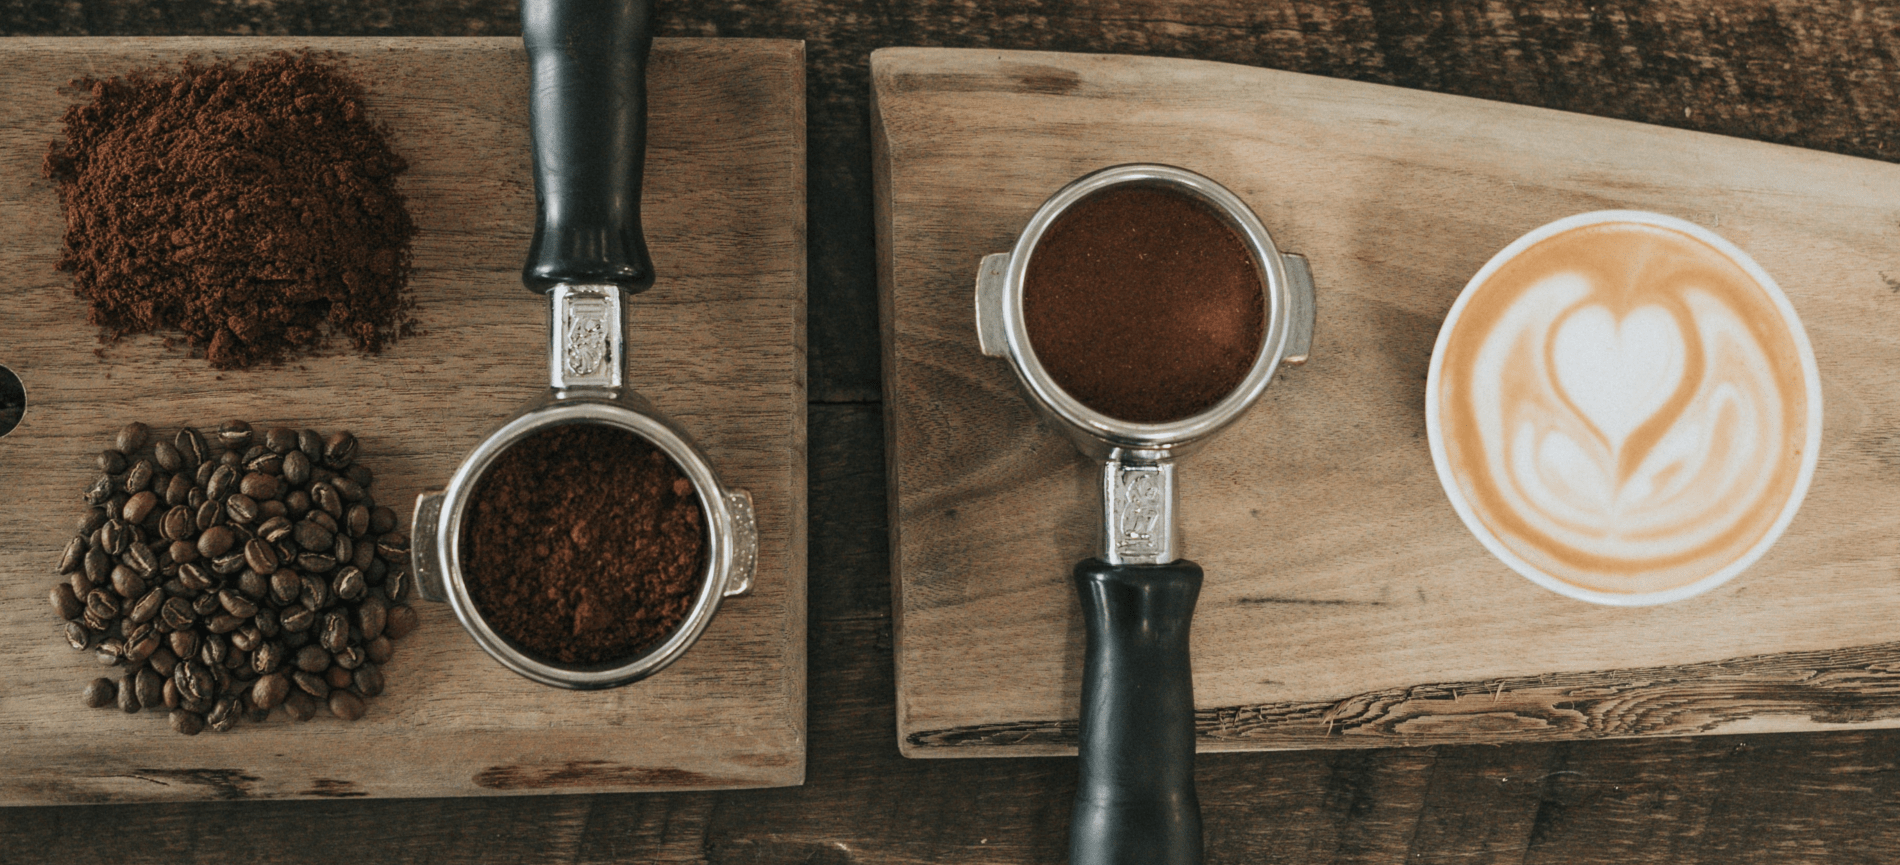
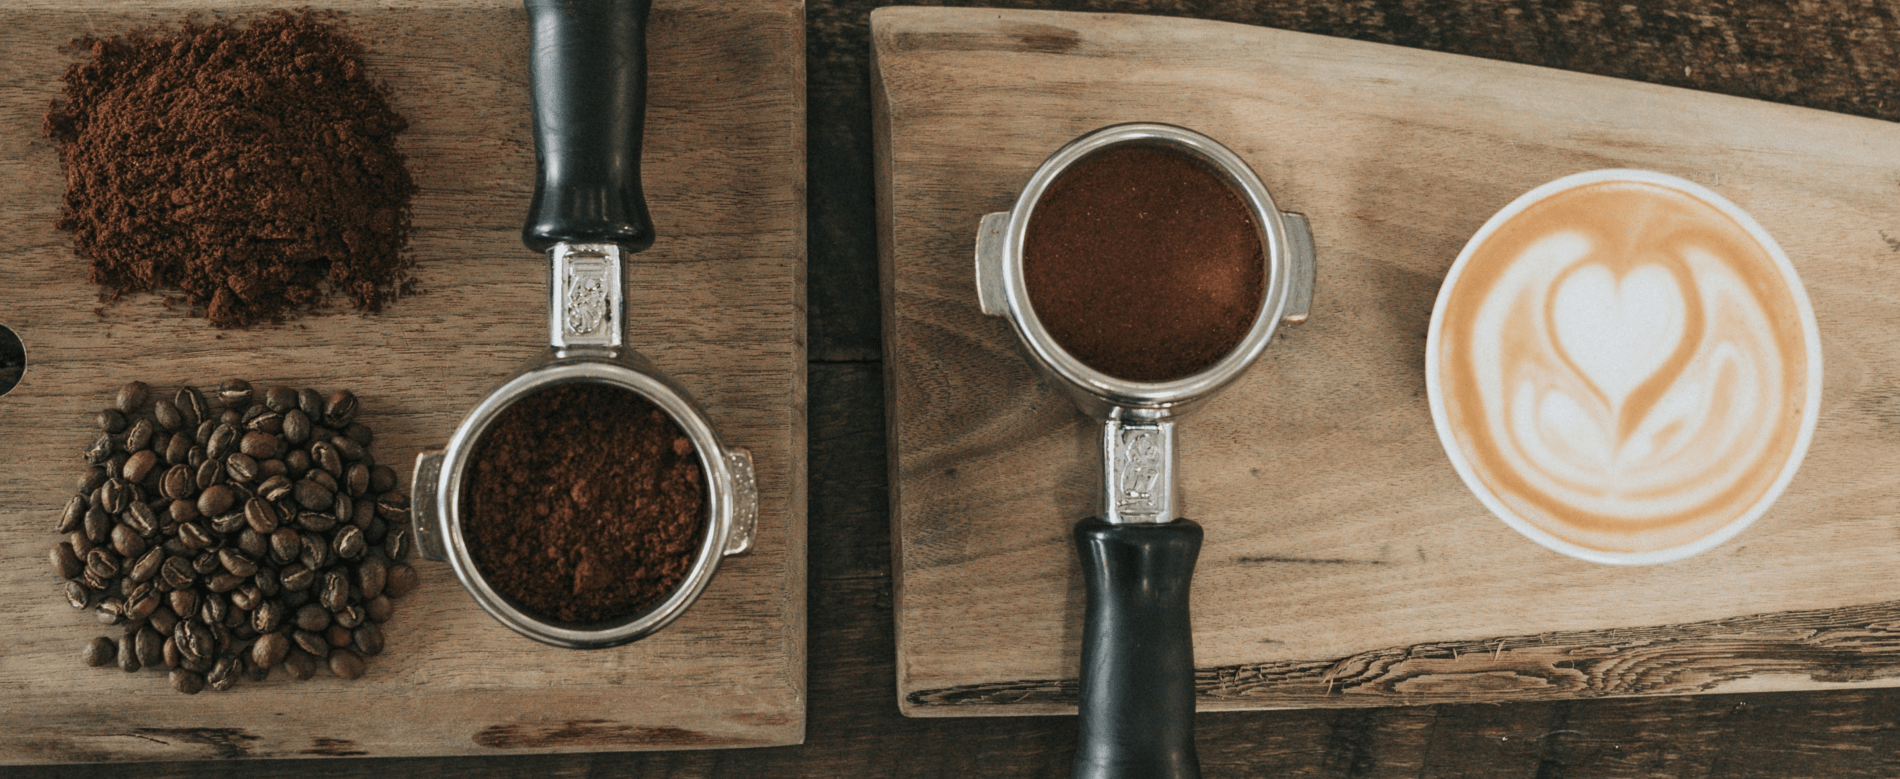
Updated images and font size.

diff --git a/index.html b/index.html
@@ -109,18 +109,11 @@
 								<img class="img-responsive" src="images/slider/slider-img-4.jpg" alt="">
 							</div>
 							<div>
-								<img class="img-responsive" src="images/slider/slider-img-1.jpg" alt="">
+								<img class="img-responsive" src="images/slider/slider-img-5.jpg" alt="">
 							</div>
 							<div>
-								<img class="img-responsive" src="images/slider/slider-img-2.jpg" alt="">
+								<img class="img-responsive" src="images/slider/slider-img-6.jpg" alt="">
 							</div>
-							<div>
-								<img class="img-responsive" src="images/slider/slider-img-3.jpg" alt="">
-							</div>
-							<div>
-								<img class="img-responsive" src="images/slider/slider-img-4.jpg" alt="">
-							</div>
-
 						</div>
 					</div>
 				</div><!-- .col-md-12 close -->
@@ -149,87 +142,7 @@
 			</div><!-- .row close -->
 		</div><!-- .containe close -->
 	</section><!-- #call-to-action close -->
-	<!--
-    blog start
-    ============================ -->
-	<!-- <section id="blog">
-		<div class="container">
-			<div class="row">
-				<div class="col-md-12">
-					<div class="block">
-						<h1 class="heading">Latest <span>From</span> the <span>Blog</span></h1>
-						<ul>
-							<li class="wow fadeInLeft" data-wow-duration="300ms" data-wow-delay="300ms">
-								<div class="blog-img">
-									<img src="images/blog/blog-img-1.jpg" alt="blog-img">
-								</div>
-								<div class="content-right">
-									<h3>Homestyle Chicken Pot Pie</h3>
-									<p>Prepared in true New England fash-ion. Tender all-white meat chicken simmered...
-									</p>
-								</div>
-							</li>
-							<li class="wow fadeInLeft" data-wow-duration="300ms" data-wow-delay="400ms">
-								<div class="blog-img">
-									<img src="images/blog/blog-img-2.jpg" alt="blog-img">
-								</div>
-								<div class="content-right">
-									<h3>Homestyle Chicken Pot Pie</h3>
-									<p>Prepared in true New England fash-ion. Tender all-white meat chicken simmered...
-									</p>
-								</div>
-							</li>
-							<li class="wow fadeInLeft" data-wow-duration="300ms" data-wow-delay="500ms">
-								<div class="content-left">
-									<h3>Homestyle Chicken Pot Pie</h3>
-									<p>Prepared in true New England fash-ion. Tender all-white meat chicken simmered...
-									</p>
-								</div>
-								<div class="blog-img-2">
-									<img src="images/blog/blog-img-3.jpg" alt="blog-img">
-								</div>
-							</li>
-							<li class="wow fadeInLeft" data-wow-duration="300ms" data-wow-delay="600ms">
-								<div class="content-left">
-									<h3>Homestyle Chicken Pot Pie</h3>
-									<p>Prepared in true New England fash-ion. Tender all-white meat chicken simmered...
-									</p>
-								</div>
-								<div class="blog-img-2">
-									<img src="images/blog/blog-img-4.jpg" alt="blog-img">
-								</div>
-							</li>
-							<li class="wow fadeInLeft" data-wow-duration="300ms" data-wow-delay="700ms">
-								<div class="blog-img">
-									<img src="images/blog/blog-img-5.jpg" alt="blog-img">
-								</div>
-								<div class="content-right">
-									<h3>Homestyle Chicken Pot Pie</h3>
-									<p>Prepared in true New England fash-ion. Tender all-white meat chicken simmered...
-									</p>
-								</div>
-							</li>
-							<li class="wow fadeInUp" data-wow-duration="300ms" data-wow-delay="800ms">
-								<div class="blog-img">
-									<img src="images/blog/blog-img-6.jpg" alt="blog-img">
-								</div>
-								<div class="content-right">
-									<h3>Homestyle Chicken Pot Pie</h3>
-									<p>Prepared in true New England fash-ion. Tender all-white meat chicken simmered...
-									</p>
-								</div>
-							</li>
-						</ul>
-						<a class="btn btn-default btn-more-info wow bounceIn" data-wow-duration="500ms" data-wow-delay="1200ms"
-							href="#" role="button">More Info</a>
-					</div>
-				</div><!-- .col-md-12 close -->
-			<!-- </div><!-- .row close -->
-		<!-- </div><!-- .containe close -->
-	<!-- </section>#blog close -->
-	<!--
-    price start
-    ============================ -->
+	
 	<section id="price">
 		<div class="container">
 			<div class="row">
@@ -330,8 +243,6 @@
 					<div class="block">
 						<h1 class=" heading wow fadeInUp" data-wow-duration="300ms" data-wow-delay="300ms"> SUBSCRIBE
 							<span>to our</span> NEWSLETTER</h1>
-						<p class="wow fadeInUp" data-wow-duration="300ms" data-wow-delay="400ms">Lorem ipsum dolor sit
-							amet, consectetur adipiscing elit, sed do eiusmod </p>
 						<form class="form-inline">
 							<div class="form-group">
 								<div class="input-group">
@@ -409,26 +320,7 @@
 					</div>
 				</div>
 				<!-- .col-md-4 close -->
-				<!-- <div class="col-md-4">
-					<div class="block wow fadeInLeft" data-wow-delay="700ms">
-						<h3>LATEST <span>BLOG POSTS</span></h3>
-						<div class="blog">
-							<ul>
-								<li>
-									<h4><a href="#">Nov 9-2014</a></h4>
-									<p>Lorem ipsum dolor sit amet, consectetur adip iscing elit. Curabitur ut blandit
-										sapien</p>
-								</li>
-								<li>
-									<h4><a href="#">Sep 8-2014</a></h4>
-									<p>Lorem ipsum dolor sit amet, consectetur adip iscing elit. Curabitur ut blandit
-										sapien</p>
-								</li>
-							</ul>
-						</div>
-					</div>
-				</div> -->
-				<!-- .col-md-4 close -->
+				
 				<div class="col-md-4">
 					<div class="block wow fadeInLeft" data-wow-delay="1100ms">
 						<div class="gallary">
@@ -459,16 +351,6 @@
 								<li>
 									<a href="#">
 										<i class="fa fa-facebook"></i>
-									</a>
-								</li>
-								<li>
-									<a href="#">
-										<i class="fa fa-dribbble"></i>
-									</a>
-								</li>
-								<li>
-									<a href="#">
-										<i class="fa fa-behance"></i>
 									</a>
 								</li>
 							</ul>

diff --git a/css/main.css b/css/main.css
@@ -32,7 +32,7 @@ h3 {
   font-weight: 600;
 }
 p {
-  font-size: 16px;
+  font-size: 20px;
   font-weight: 400;
   line-height: 20px;
   margin: 0px;
